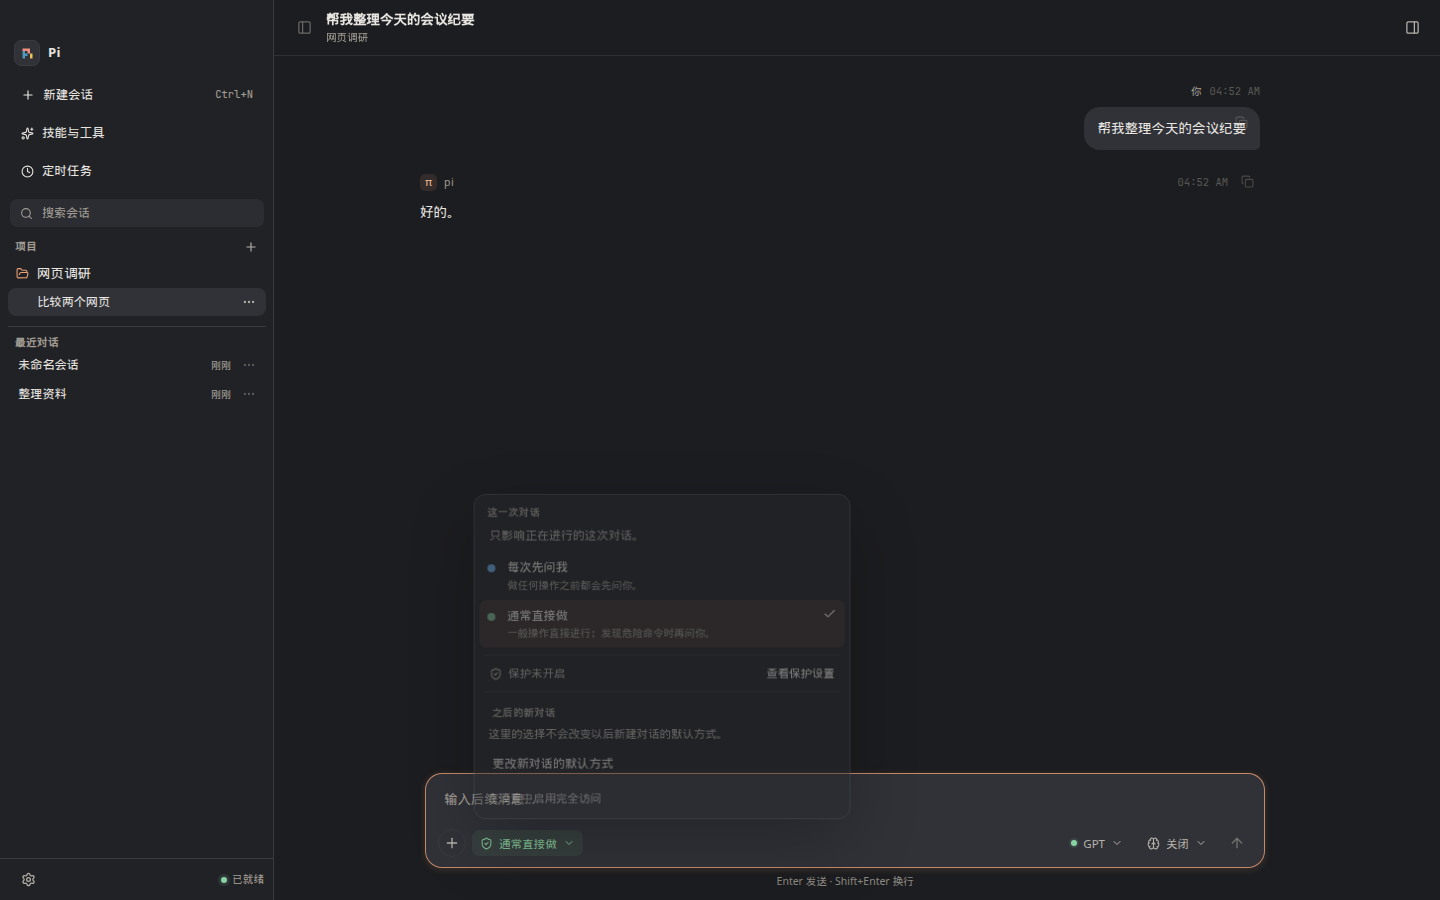
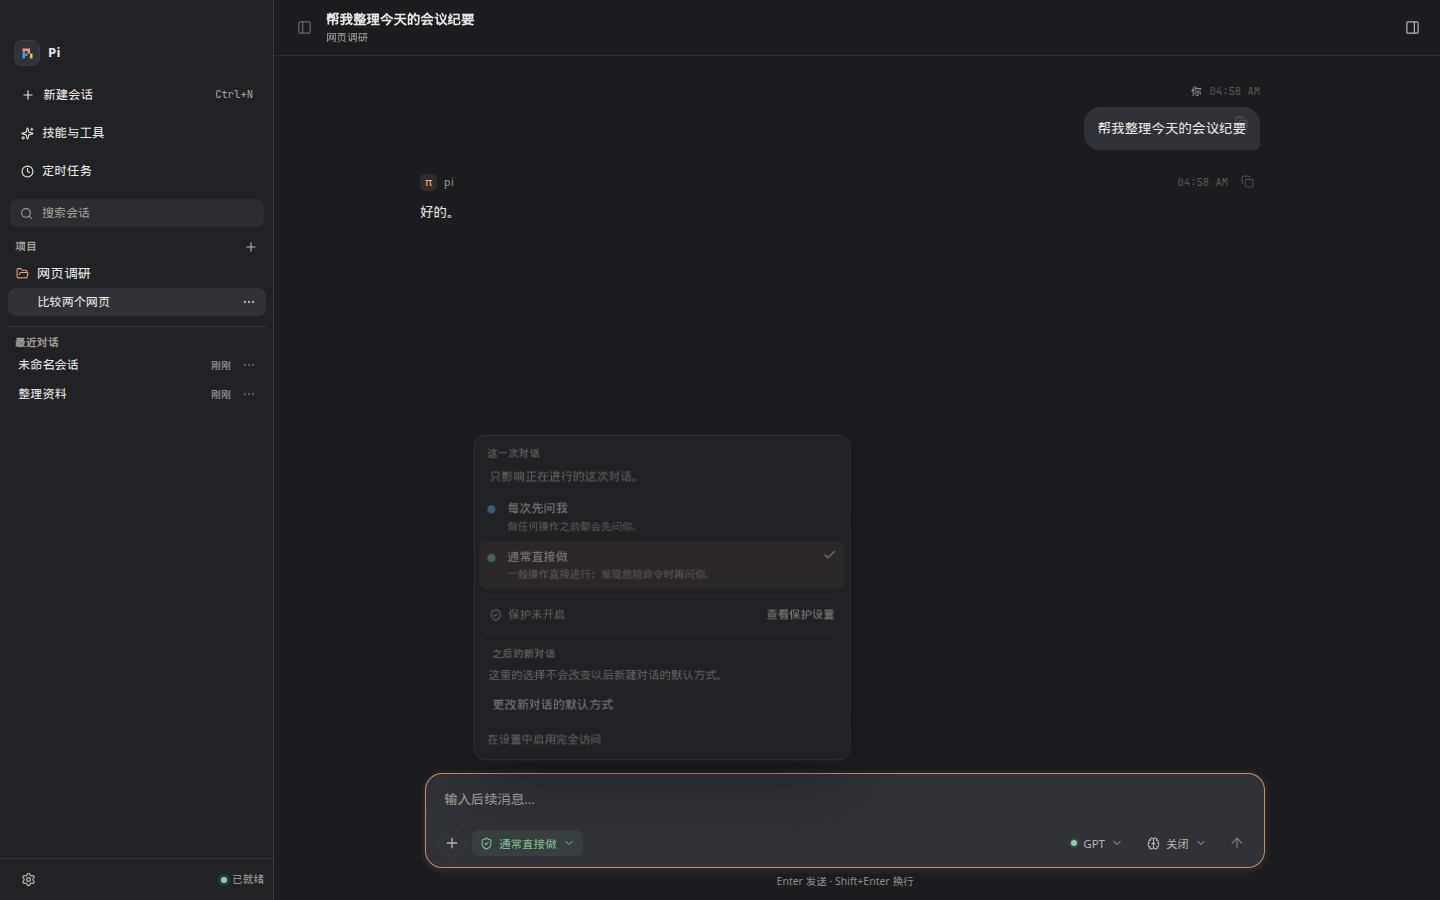
Keep the permission menu above the composer and drop project jargon on first launch
The menu was anchored to the chip inside the input, so its lower section covered the placeholder. It now clears the whole composer and scrolls inside its own height when the window is short. The empty header says 不关联文件夹.

diff --git a/src/renderer/src/components/ui.tsx b/src/renderer/src/components/ui.tsx
@@ -91,19 +91,25 @@ export function Popover({
     const node = rootRef.current
     if (!node) return
     const rect = node.getBoundingClientRect()
-    const gap = 6
+    const gap = 8
+    const edge = 8
+    // A chip inside the composer sits below the text field. Anchor to the
+    // composer box so the menu clears the input instead of covering it.
+    const composer = node.closest('.composer')?.getBoundingClientRect()
+    const anchorTop = composer ? composer.top : rect.top
+    const anchorBottom = composer ? composer.bottom : rect.bottom
     const left = Math.min(
-      Math.max(8, align === 'right' ? rect.right - width : rect.left),
-      Math.max(8, window.innerWidth - width - 8)
+      Math.max(edge, align === 'right' ? rect.right - width : rect.left),
+      Math.max(edge, window.innerWidth - width - edge)
     )
-    const below = window.innerHeight - rect.bottom - gap - 8
-    const above = rect.top - gap - 8
-    const openUp = below < 260 && above > below
-    const maxHeight = Math.max(180, Math.min(460, openUp ? above : below))
+    const above = Math.max(0, anchorTop - gap - edge)
+    const below = Math.max(0, window.innerHeight - anchorBottom - gap - edge)
+    const openUp = below < 220 && above >= below
+    const maxHeight = Math.min(460, openUp ? above : below)
     if (openUp) {
-      setStyle({ bottom: window.innerHeight - rect.top + gap, left, width, maxHeight })
+      setStyle({ bottom: window.innerHeight - anchorTop + gap, left, width, maxHeight })
     } else {
-      setStyle({ top: rect.bottom + gap, left, width, maxHeight })
+      setStyle({ top: anchorBottom + gap, left, width, maxHeight })
     }
   }
 

diff --git a/src/renderer/src/components/TopBar.tsx b/src/renderer/src/components/TopBar.tsx
@@ -17,7 +17,7 @@ export function TopBar(): ReactNode {
   const temporary = state.scratchWorkspace || isTemporaryWorkspace(state.workspace, state.boot?.scratchPath)
   const place = temporary
     ? t('临时对话')
-    : projectName(state.settings.workspaceNames, state.workspace) || t('No project')
+    : projectName(state.settings.workspaceNames, state.workspace) || t('不关联文件夹')
   const placeLabel = looksLikeRawPath(place) ? t('临时对话') : place
   const firstUser = state.messages.find((message) => message.role === 'user')
   const fallbackTitle = firstUser
